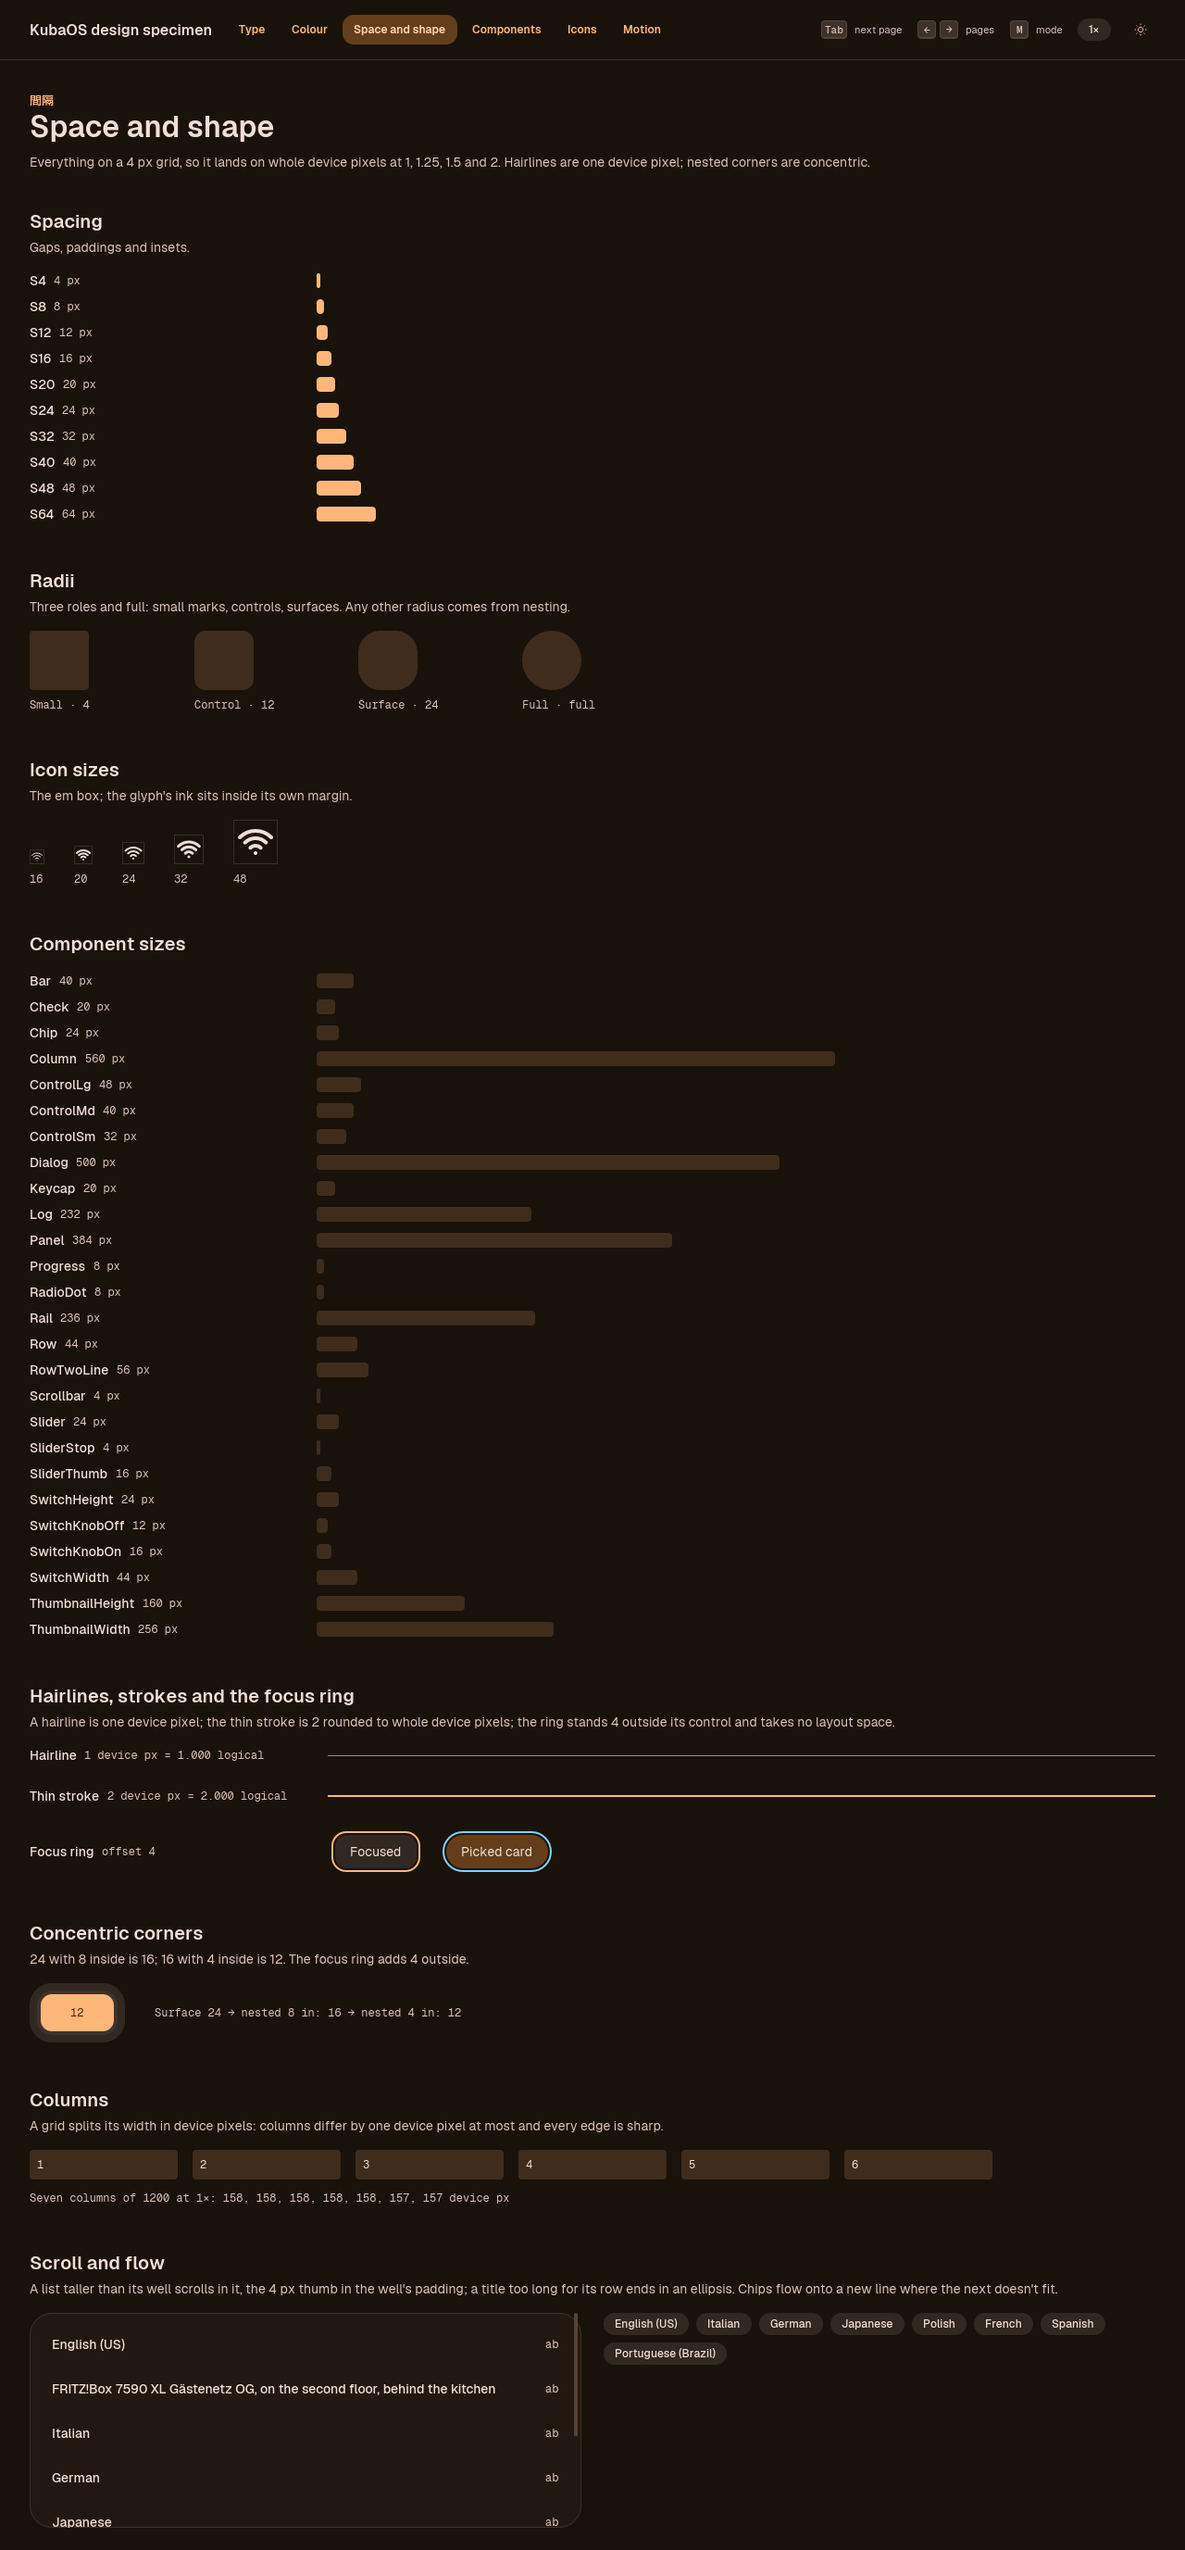
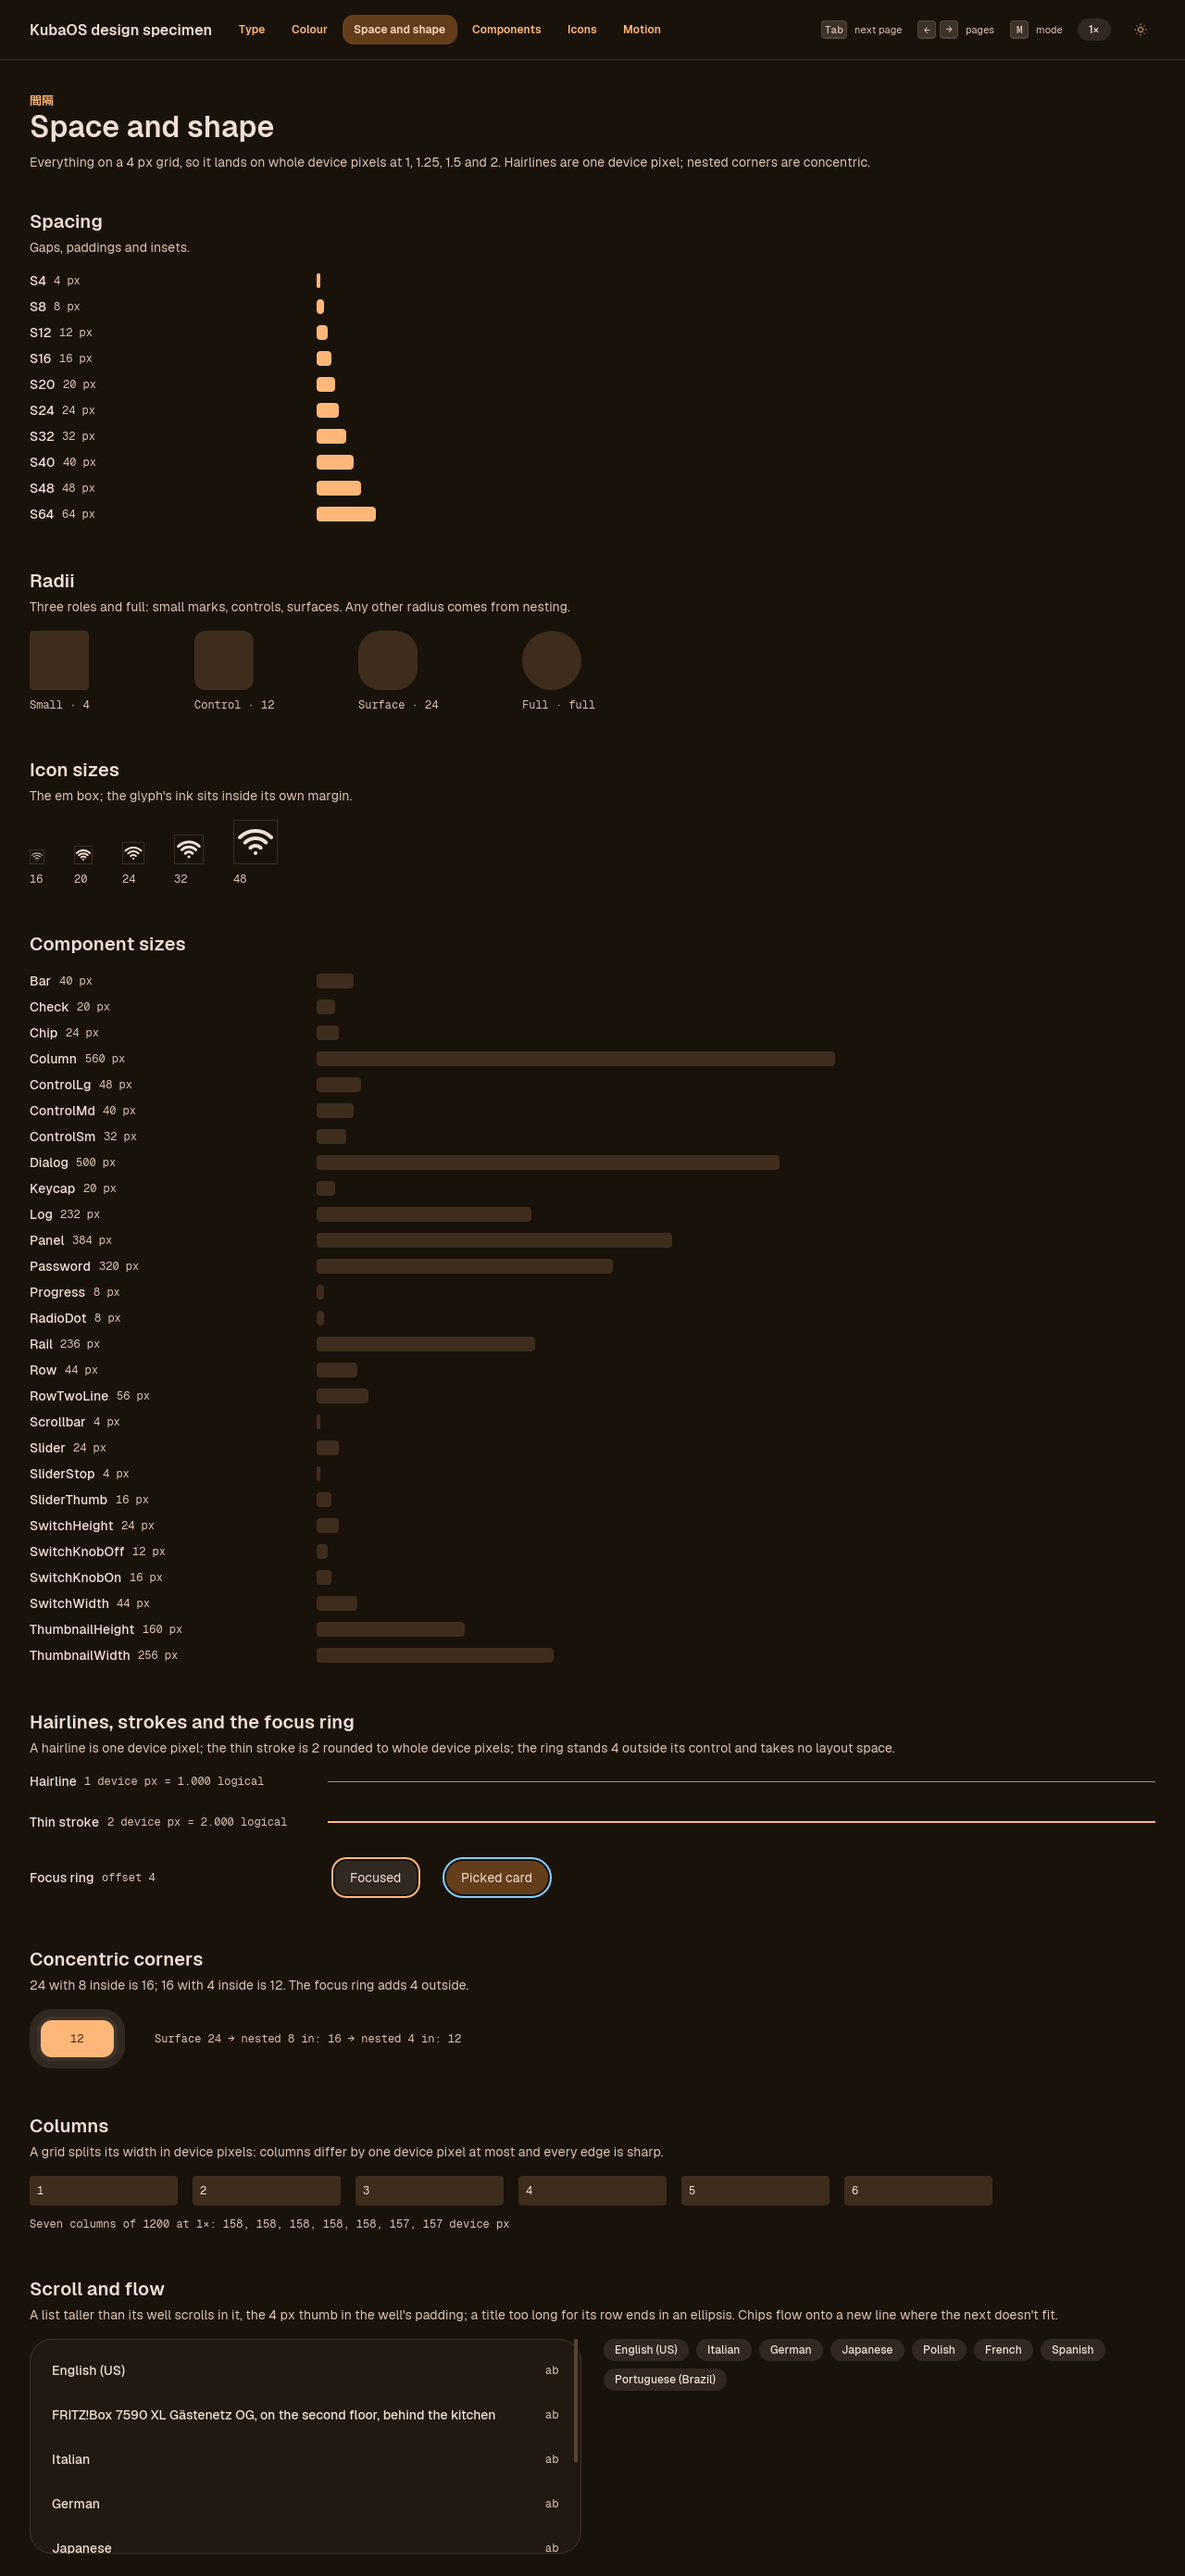
feat(design): add the lock clock's type style and a password field width
`type.clock` (80 / 88, light) is a step above the hero for the lock
screen's clock, and `size.password` (320) is a password field alone on a
screen. The specimen's type and space pages are regenerated.

diff --git a/qml/KubaOS/Components/Tokens.qml b/qml/KubaOS/Components/Tokens.qml
@@ -22,7 +22,7 @@ QtObject {
         // logical pixels.
         readonly property int grid: 4
         // The only font sizes, in logical pixels.
-        readonly property list<int> font_sizes: [11, 12, 13, 14, 16, 20, 24, 32, 48, 64]
+        readonly property list<int> font_sizes: [11, 12, 13, 14, 16, 20, 24, 32, 48, 64, 80]
         // The display scales every length lands on whole device pixels at.
         readonly property list<real> scales: [1, 1.25, 1.5, 2]
     }
@@ -94,6 +94,7 @@ QtObject {
         readonly property int keycap: 20
         readonly property int log: 232
         readonly property int panel: 384
+        readonly property int password: 320
         readonly property int progress: 8
         readonly property int radio_dot: 8
         readonly property int rail: 236
@@ -162,6 +163,17 @@ QtObject {
     // Type styles: what a piece of text is drawn with. Pick one by what the text is.
     readonly property QtObject type: QtObject {
 
+        // The lock screen's clock, the one thing that screen shows: a step above the hero, light
+        // like every big figure.
+        readonly property QtObject clock: QtObject {
+            readonly property string name: "clock"
+            readonly property int size: 80
+            readonly property int line: 88
+            readonly property int icon: 48
+            readonly property int weight: 300
+            readonly property string family: "Geist"
+        }
+
         // Words at the hero size: Kōbō's welcome line, and nothing else.
         readonly property QtObject hero: QtObject {
             readonly property string name: "hero"
@@ -173,7 +185,7 @@ QtObject {
         }
 
         // Numbers at the hero size, light so a big figure doesn't shout: Kōbō's install percent,
-        // the clock.
+        // the clock popup's time.
         readonly property QtObject hero_number: QtObject {
             readonly property string name: "hero_number"
             readonly property int size: 64

diff --git a/crates/kubaos-ui/src/tokens.rs b/crates/kubaos-ui/src/tokens.rs
@@ -18,7 +18,7 @@
 pub const GRID: u16 = 4;
 
 /// The only font sizes, in logical pixels.
-pub const FONT_SIZES: [u16; 10] = [11, 12, 13, 14, 16, 20, 24, 32, 48, 64];
+pub const FONT_SIZES: [u16; 11] = [11, 12, 13, 14, 16, 20, 24, 32, 48, 64, 80];
 
 /// The display scales every length lands on whole device pixels at.
 pub const SCALES: [f32; 4] = [1.0, 1.25, 1.5, 2.0];
@@ -167,6 +167,7 @@ pub enum Size {
     Keycap,
     Log,
     Panel,
+    Password,
     Progress,
     RadioDot,
     Rail,
@@ -186,7 +187,7 @@ pub enum Size {
 
 impl Size {
     /// Every size.
-    pub const ALL: [Size; 26] = [
+    pub const ALL: [Size; 27] = [
         Size::Bar,
         Size::Check,
         Size::Chip,
@@ -198,6 +199,7 @@ impl Size {
         Size::Keycap,
         Size::Log,
         Size::Panel,
+        Size::Password,
         Size::Progress,
         Size::RadioDot,
         Size::Rail,
@@ -229,6 +231,7 @@ impl Size {
             Size::Keycap => 20,
             Size::Log => 232,
             Size::Panel => 384,
+            Size::Password => 320,
             Size::Progress => 8,
             Size::RadioDot => 8,
             Size::Rail => 236,
@@ -330,10 +333,13 @@ impl Weight {
 /// A type style: what a piece of text is drawn with.
 #[derive(Debug, Clone, Copy, PartialEq, Eq, Hash)]
 pub enum Type {
+    /// The lock screen's clock, the one thing that screen shows: a step above the hero, light like
+    /// every big figure.
+    Clock,
     /// Words at the hero size: Kōbō's welcome line, and nothing else.
     Hero,
     /// Numbers at the hero size, light so a big figure doesn't shout: Kōbō's install percent, the
-    /// clock.
+    /// clock popup's time.
     HeroNumber,
     /// The heading of a full-screen moment other than the welcome: Kōbō's done screen.
     Display,
@@ -375,7 +381,8 @@ pub enum Type {
 
 impl Type {
     /// Every type style, largest first.
-    pub const ALL: [Type; 20] = [
+    pub const ALL: [Type; 21] = [
+        Type::Clock,
         Type::Hero,
         Type::HeroNumber,
         Type::Display,
@@ -401,6 +408,7 @@ impl Type {
     /// The font size in logical pixels.
     pub const fn size(self) -> u16 {
         match self {
+            Type::Clock => 80,
             Type::Hero => 64,
             Type::HeroNumber => 64,
             Type::Display => 48,
@@ -427,6 +435,7 @@ impl Type {
     /// The line height in logical pixels.
     pub const fn line(self) -> u16 {
         match self {
+            Type::Clock => 88,
             Type::Hero => 72,
             Type::HeroNumber => 72,
             Type::Display => 56,
@@ -454,6 +463,7 @@ impl Type {
     /// here.
     pub const fn icon(self) -> IconSize {
         match self {
+            Type::Clock => IconSize::S48,
             Type::Hero => IconSize::S48,
             Type::HeroNumber => IconSize::S48,
             Type::Display => IconSize::S48,
@@ -480,6 +490,7 @@ impl Type {
     /// The weight.
     pub const fn weight(self) -> Weight {
         match self {
+            Type::Clock => Weight::Light,
             Type::Hero => Weight::Semibold,
             Type::HeroNumber => Weight::Light,
             Type::Display => Weight::Semibold,
@@ -506,6 +517,7 @@ impl Type {
     /// The family.
     pub const fn family(self) -> Family {
         match self {
+            Type::Clock => Family::Sans,
             Type::Hero => Family::Sans,
             Type::HeroNumber => Family::Sans,
             Type::Display => Family::Sans,

diff --git a/crates/kubaos-specimen/src/pages.rs b/crates/kubaos-specimen/src/pages.rs
@@ -31,7 +31,8 @@ pub fn view<'a>(specimen: &Specimen, look: &Look) -> Element<'a, Message> {
         Page::Type => (
             "書体",
             "Geist for the interface, Geist Mono for anything typed or read by a machine, M PLUS 1 for \
-             the Japanese accents. Ten sizes, 64 for the hero alone; every line height a multiple of 4.",
+             the Japanese accents. Eleven sizes, 64 for the hero and 80 for the lock screen's clock \
+             alone; every line height a multiple of 4.",
         ),
         Page::Colour => (
             "色",

diff --git a/crates/kubaos-specimen/src/pages/type_scale.rs b/crates/kubaos-specimen/src/pages/type_scale.rs
@@ -23,6 +23,7 @@ use crate::specimen::Message;
 /// What each style is shown saying: a line it would really carry.
 fn sample(style: Type) -> &'static str {
     match style {
+        Type::Clock => "21:47",
         Type::Hero => "Let's fix this shit.",
         Type::HeroNumber => "42%  09:41",
         Type::Display => "Done in 1m 42s.",

diff --git a/docs/DESIGN.md b/docs/DESIGN.md
@@ -61,7 +61,7 @@ Kōbō is the reference. Kuba designed it; the shell's look was inherited from s
 
 ![Type styles, dark](../design/specimen/type-dark-1x.png)
 
-*Every style, largest first; the tint behind each is its line box, so the line height is visible. Hero 64 sits on top. Light: [type-light-1x.png](../design/specimen/type-light-1x.png).*
+*Every style, largest first; the tint behind each is its line box, so the line height is visible. The lock screen's clock, 80, sits on top, then the hero's 64. Light: [type-light-1x.png](../design/specimen/type-light-1x.png).*
 
 **Families** (`[font.family]`), and nothing else draws text:
 
@@ -73,14 +73,15 @@ Kōbō is the reference. Kuba designed it; the shell's look was inherited from s
 
 `kubaos-ui` embeds the fonts it uses, so an app draws the same on a machine with none installed.
 
-**Sizes:** 11, 12, 13, 14, 16, 20, 24, 32, 48, 64 (`rules.font_sizes`). 64 is the hero's alone. **Every line height is a multiple of 4**, so text boxes stay on the grid. `kubaos-tokens` refuses any other size, and any line height off the grid.
+**Sizes:** 11, 12, 13, 14, 16, 20, 24, 32, 48, 64, 80 (`rules.font_sizes`). 64 is the hero's alone, and 80 the lock screen's clock's. **Every line height is a multiple of 4**, so text boxes stay on the grid. `kubaos-tokens` refuses any other size, and any line height off the grid.
 
 **Styles** (`[type.*]`, the `Type` enum). Pick by what the text is, never by how big you want it:
 
 | Style | Size / line | Weight, family | For |
 |---|---|---|---|
+| `clock` | 80 / 88 | light | The lock screen's clock, the one thing that screen shows: a step above the hero, light like every big figure. |
 | `hero` | 64 / 72 | semibold | Words at the hero size: Kōbō's welcome line, nothing else. |
-| `hero_number` | 64 / 72 | light | Numbers at the hero size: the install percent, the clock. Light, so a big figure doesn't shout. |
+| `hero_number` | 64 / 72 | light | Numbers at the hero size: the install percent, the clock popup's time. Light, so a big figure doesn't shout. |
 | `display` | 48 / 56 | semibold | The heading of a full-screen moment other than the welcome: Kōbō's done screen. |
 | `title` | 32 / 40 | semibold | A screen's or page's title. |
 | `headline` | 24 / 32 | semibold | A dialog's title, a big number. |
@@ -112,7 +113,7 @@ Every style names the icon that sits beside it on its line (`icon` in `[type.*]`
 | 20 | `body`, `body_strong`, `body_large`, `mono_large`, `button` |
 | 24 | `subheading`, `heading`, `button_large` |
 | 32 | `headline`, `title` |
-| 48 | `display`, `hero`, `hero_number` |
+| 48 | `display`, `hero`, `hero_number`, `clock` |
 
 - **The box is one or two icon sizes above the font size**, so a symbol's ink (its box less Tabler's 2 unit margin) stands a little taller than the letters' capitals, and its stroke reads as heavy as their stems. A semibold style takes a step more than a regular one of its size, since its stems are heavier: at 16, `subheading` and `button_large` take 24, `body_large` 20.
 - **Never taller than the line**: `kubaos-tokens` refuses an icon taller than its style's line, so an icon never makes a line taller and a row with one is as tall as a row without.
@@ -133,7 +134,7 @@ Every style names the icon that sits beside it on its line (`icon` in `[type.*]`
 | Spacing (`[space]`) | 4, 8, 12, 16, 20, 24, 32, 40, 48, 64 |
 | Radii (`[radius]`) | three roles, small 4, control 12, surface 24, and `full`; below |
 | Icon sizes (`[icon]`) | 16, 20, 24, 32, 48 |
-| Component sizes (`[size]`) | control sm 32, md 40, lg 48; row 44, two-line row 56; chip 24; keycap 20; switch 44 × 24, knob 12 off, 16 on; slider 24, thumb 16, stop mark 4; check 20, radio dot 8; progress 8; dialog 500; column 560; rail 236; log 232; scrollbar 4; the shell's panel 384 and bar 40; a wallpaper's thumbnail 256 × 160 |
+| Component sizes (`[size]`) | control sm 32, md 40, lg 48; row 44, two-line row 56; chip 24; keycap 20; switch 44 × 24, knob 12 off, 16 on; slider 24, thumb 16, stop mark 4; check 20, radio dot 8; progress 8; dialog 500; a password field alone on a screen (the lock screen's) 320; column 560; rail 236; log 232; scrollbar 4; the shell's panel 384 and bar 40; a wallpaper's thumbnail 256 × 160 |
 | Container padding (`[container]`) | 16 under 640, 24 from 640, 32 from 1024 |
 | Aspect ratios (`[aspect]`) | wallpaper 16:10 |
 
